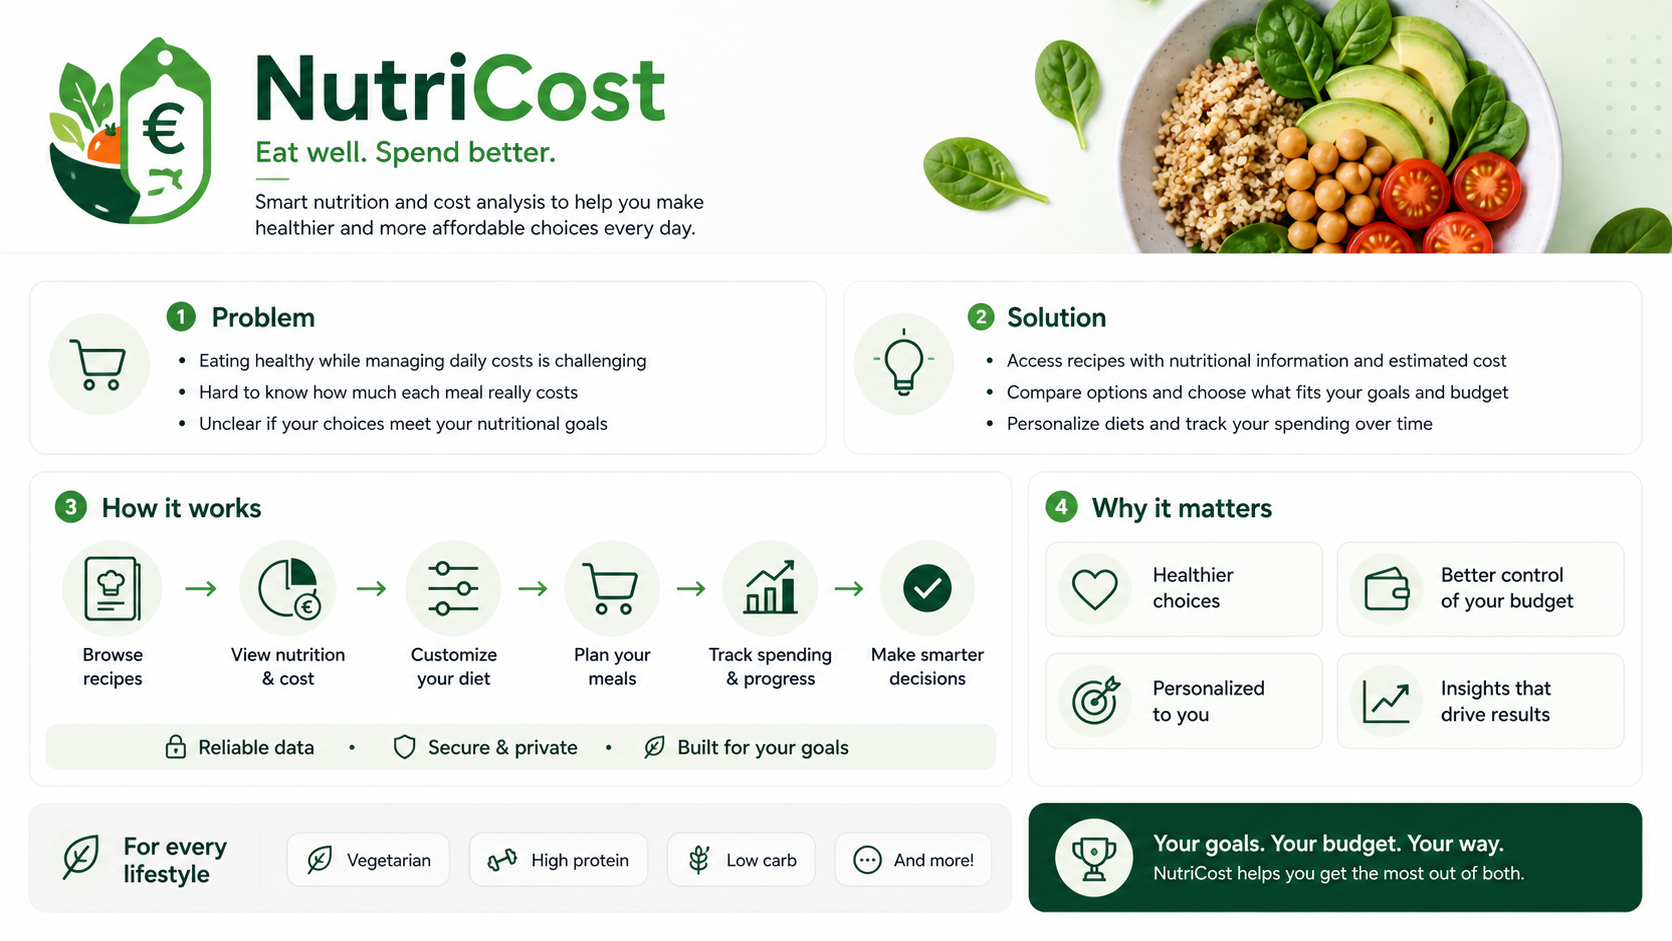
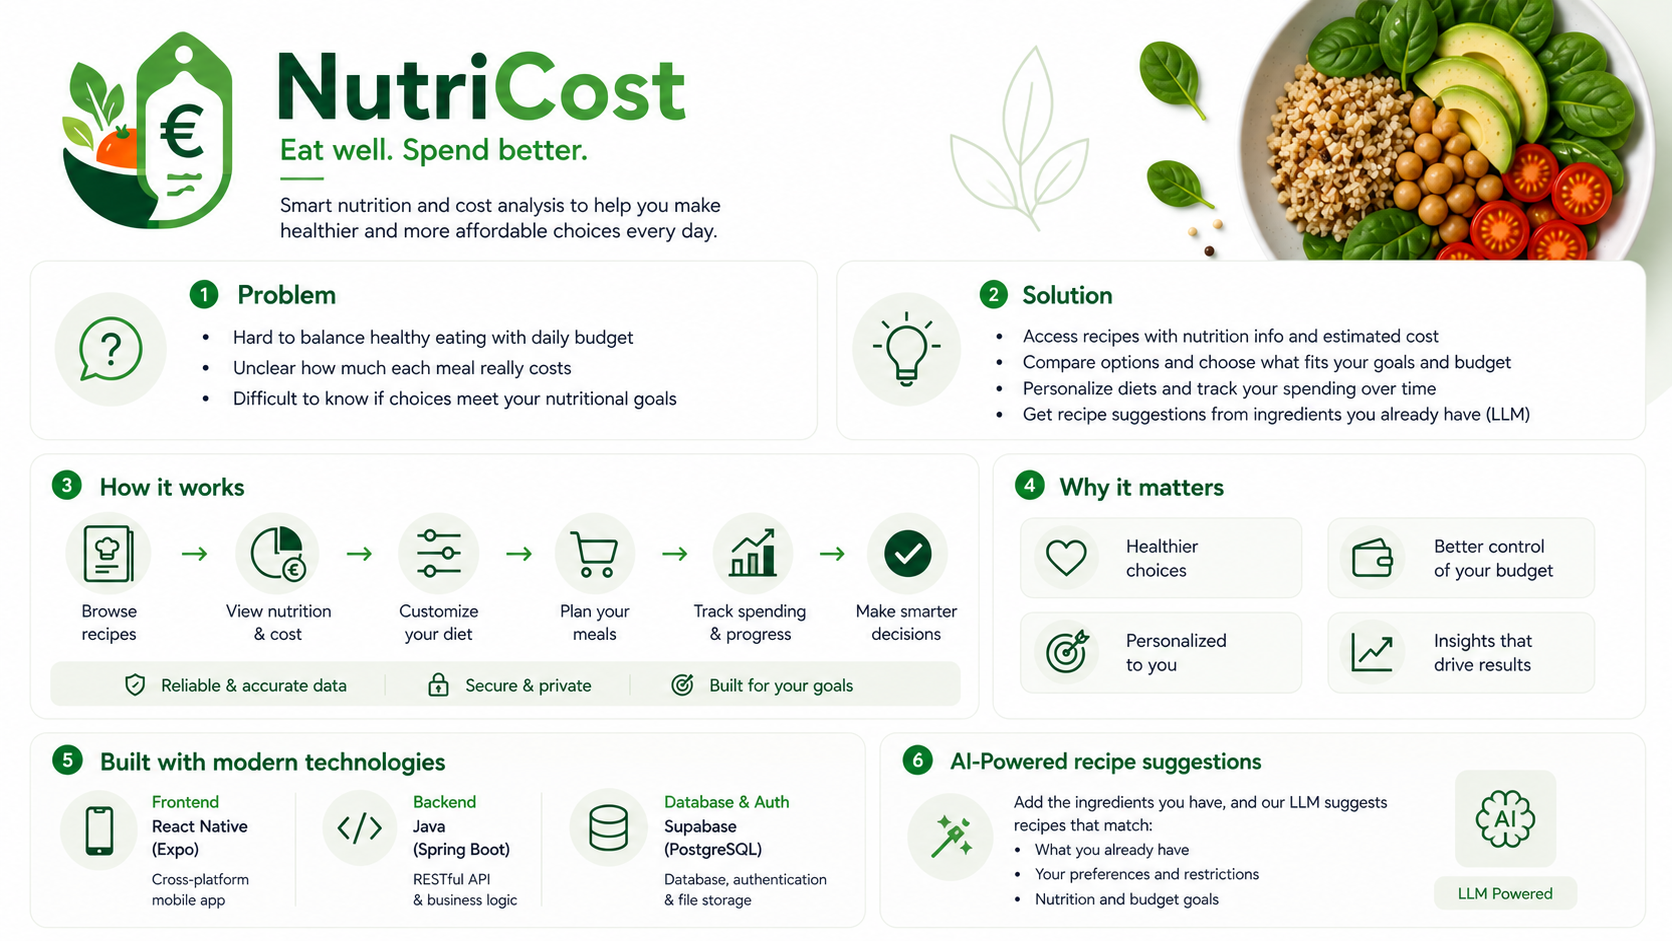
Update

diff --git a/README.md b/README.md
@@ -1,24 +1,24 @@
-# shiftAPPens26 
+# shiftAPPens26
 
-## 
+##
 
 A React Native mobile app built with **TypeScript** and **Expo**, designed to help track nutritional costs and recipe management.
 
 ### Tech Stack
 
-| Layer         | Technology                  |
-|---------------|-----------------------------|
-| UI / Logic    | React Native + TypeScript   |
-| Framework     | Expo                        |
-| Navigation    | React Navigation v7         |
-| Storage       | AsyncStorage                |
-| Icons         | Expo Vector Icons           |
+| Layer      | Technology                |
+| ---------- | ------------------------- |
+| UI / Logic | React Native + TypeScript |
+| Framework  | Expo                      |
+| Navigation | React Navigation v7       |
+| Storage    | AsyncStorage              |
+| Icons      | Expo Vector Icons         |
 
 ### Project Structure
 
 ```
 NutriCost/
-├── App.tsx                        
+├── App.tsx
 └── src/
     ├── types/index.ts
     ├── theme/index.ts
@@ -51,6 +51,7 @@ NutriCost/
 ### Getting Started
 
 1. **Install dependencies:**
+
    ```bash
    cd NutriCost
    npm install
@@ -59,22 +60,29 @@ NutriCost/
 2. **Start the app:**
    ```bash
    npm start
-    ```
+   ```
 
 ### Available Commands
 
-| Command              | Description                          |
-|----------------------|--------------------------------------|
-| `npm start`          | Start Expo development server        |
-| `npm run android`    | Build & run on Android device/emulator |
+| Command           | Description                            |
+| ----------------- | -------------------------------------- |
+| `npm start`       | Start Expo development server          |
+| `npm run android` | Build & run on Android device/emulator |
 
 ### Running the App
 
 **For Android:**
+
 ```bash
 cd NutriCost
 npm install
 npm run android
 ```
 
+## License
 
+This project is publicly released under the **Eclipse Public License v1.0 (EPL-1.0)**.
+
+You are free to use, modify, and distribute this software under the terms of the EPL. For more information, see the [EPL License](https://www.eclipse.org/legal/epl-v10.html).
+
+This is a requirement of the Hackaton regulations.